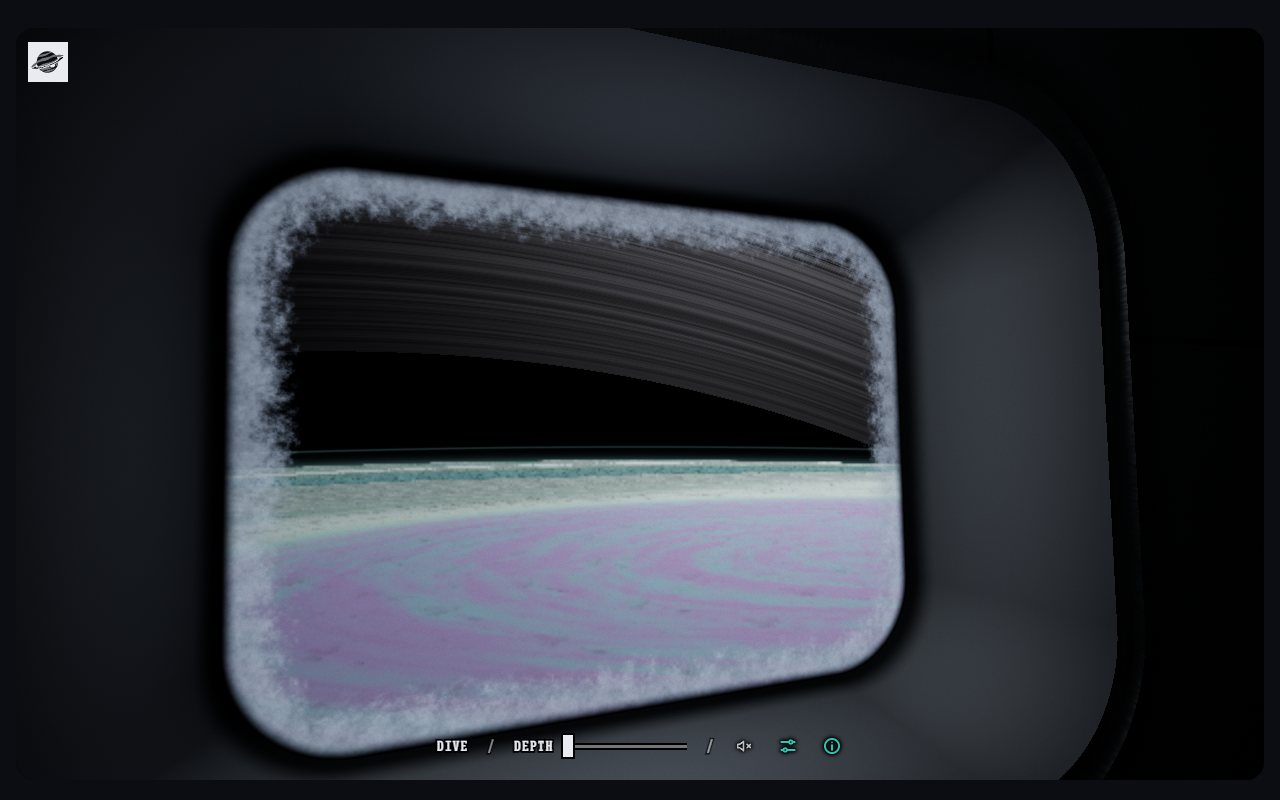
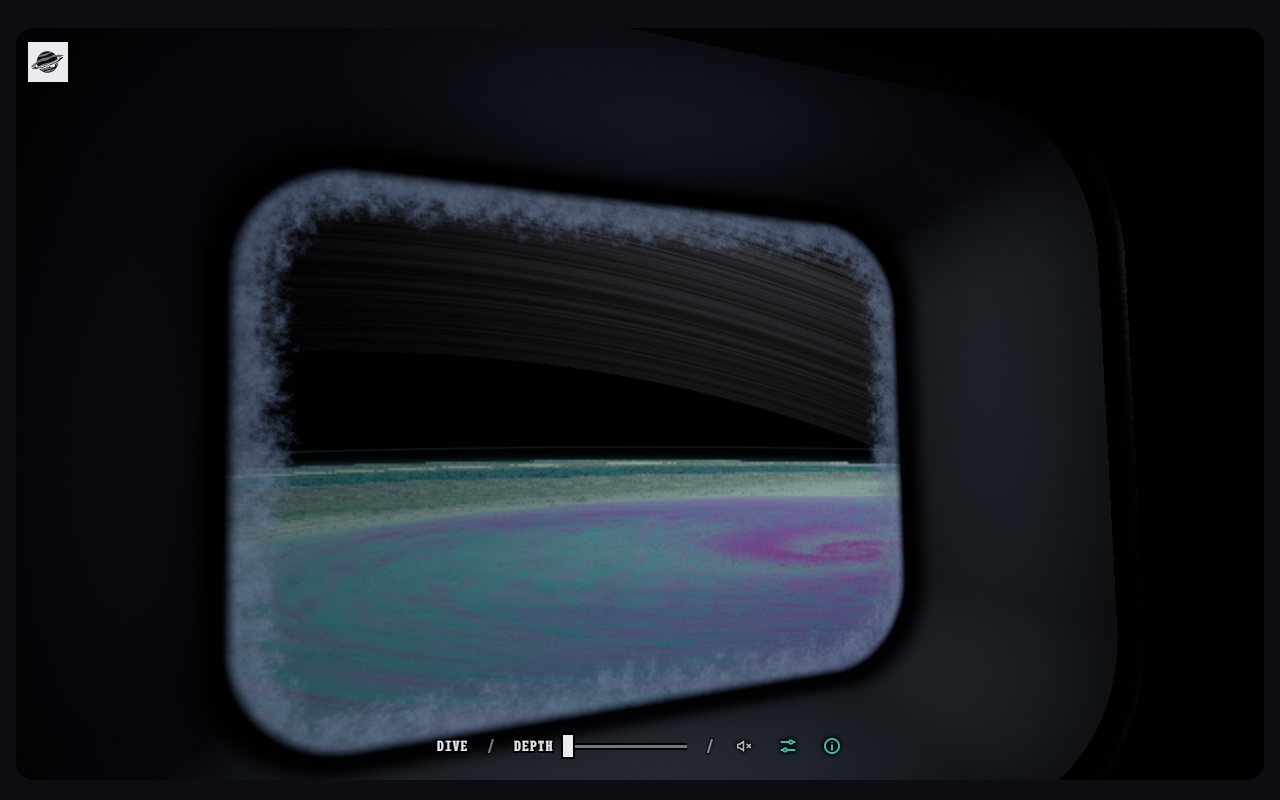
Gas giant dive: look pass on the storm and the outside, Tom's pick. The storm lies on angle and log radius as the volume does: two spiral arms trailing by a twist, folded filaments that roll into eddies, dark teal lanes between violet arms, a dimpled magenta heart; tops follow the arms so the low su

Changed region(s): [[0.1562, 0.1875, 0.8438, 1.0], [0.4375, 0.0938, 0.5938, 0.1875]]

diff --git a/gasgiant/map.js b/gasgiant/map.js
@@ -40,8 +40,10 @@ vec4 bands(vec2 q) {
   float top = mix(0.62, 0.28, belt) + 0.2 * fil + 0.08 * fil2;
   // Belts take jade or teal by turns; filaments shift the hue along them.
   float kind = smoothstep(-0.3, 0.3, sin(zw / 520.0 + 0.3));
-  float hue = mix(0.06, mix(0.36, 0.7, kind), belt) + 0.14 * fil + 0.06 * fil2;
-  float sat = clamp(mix(0.22, 0.85, belt) * (0.75 + 0.35 * fil), 0.0, 1.0);
+  // A slow drift of hue across the disc, so no two regions match.
+  float drift = 0.22 * fbm(q * 0.00035 + 4.0);
+  float hue = mix(0.06 + drift, mix(0.36, 0.7, kind) + drift, belt) + 0.16 * fil + 0.07 * fil2;
+  float sat = clamp(mix(0.5, 0.95, belt) * (0.75 + 0.35 * fil), 0.0, 1.0);
   // White ovals ride one latitude of the belt edge.
   vec2 oc = vec2(mod(q.x, 1300.0) - 650.0, q.y + 1650.0 + 120.0 * gn(vec2(floor(q.x / 1300.0), 1.7)));
   float oval = smoothstep(1.0, 0.55, length(oc / vec2(160.0, 100.0)));
@@ -59,25 +61,34 @@ void main() {
   vec4 b1 = bands(xz - vec2(u * f1 * PH, 0.0));
   vec4 b2 = bands(xz - vec2(u * f2 * PH, 0.0) + vec2(5100.0, 0.0));
   vec4 m = mix(b1, b2, abs(2.0 * f1 - 1.0));
-  // The storm: concentric streaks that turn at their own rate.
+  // The storm: spiral arms on angle and log radius, as in the cloud volume.
+  // The arms trail by a twist; the collar turns fastest; folds bend each filament.
   vec2 e = (xz - ST_C) / ST_AX;
   float q = length(e), a = atan(e.y, e.x);
-  // Slow at the eye, fastest in the collar, still outside.
   float om = 0.0014 * smoothstep(0.0, 0.75, q) * (1.0 - smoothstep(0.85, 1.25, q)) + 0.0002;
-  float ar = a + om * uT + 2.4 * q;
-  vec2 sp = vec2(q * 34.0, 0.0) + vec2(cos(ar), sin(ar)) * 1.6;
-  float st = fbm(sp) + 0.45 * fbm(sp * 2.3 + vec2(cos(ar), sin(ar)) * 2.0);
-  float core = 1.0 - smoothstep(0.55, 0.92, q);
-  float collar = smoothstep(0.7, 0.9, q) * (1.0 - smoothstep(0.98, 1.18, q));
+  float lr = log(max(q, 0.02));
+  float ar = a + om * uT - 2.6 * lr;
+  vec2 cs = vec2(cos(ar), sin(ar));
+  vec2 sp = cs * 1.8 + vec2(lr * 5.0, 0.0);
+  // Folds: a warp of the spiral point, so filaments kink and roll up into small eddies.
+  sp += 0.55 * vec2(fbm(sp * 0.8 + 1.3), fbm(sp * 0.8 + 6.1));
+  float st = fbm(sp * 1.2) + 0.5 * fbm(sp * 3.1 + 2.2);
+  // Arms: two broad bands round the spiral, with dark lanes between them.
+  float arm = 0.5 + 0.5 * sin(2.0 * ar + 1.4 * st);
+  float core = 1.0 - smoothstep(0.5, 0.9, q);
+  float heart = 1.0 - smoothstep(0.0, 0.3, q);
+  float collar = smoothstep(0.72, 0.9, q) * (1.0 - smoothstep(0.98, 1.18, q));
   float inS = 1.0 - smoothstep(0.95, 1.25, q);
   vec4 sm = vec4(0.0);
-  sm.r = clamp(0.78 + 0.18 * st - 0.25 * collar + 0.12 * core, 0.0, 1.0);
-  // A purple core, magenta at its heart, teal filaments, a pale mint collar.
-  float hs = mix(0.84, 1.06, core * smoothstep(-0.2, 0.5, st));
-  hs = mix(hs, 0.66, clamp(-st, 0.0, 1.0) * 0.7);
-  sm.g = mix(hs, 0.08, collar);
-  sm.b = clamp(mix(0.4, 0.78, core) * (1.0 - 0.8 * collar), 0.0, 1.0);
-  sm.a = 0.05;
+  // Tops: a dome, arms high and lanes low, a dimple at the quiet heart.
+  sm.r = clamp(0.62 + 0.3 * arm * (1.0 - collar) + 0.22 * st + 0.18 * core - 0.2 * heart - 0.2 * collar, 0.0, 1.0);
+  // Hue: magenta heart, purple core, teal in the lanes and outer filaments, a mint collar.
+  float hs = mix(0.88, 1.15, heart) + 0.1 * st;
+  hs = mix(hs, 0.62, (1.0 - arm) * 0.55 * (0.4 + 0.6 * core));
+  hs = mix(hs, 0.7, smoothstep(0.55, 0.85, q) * smoothstep(0.1, 0.6, st) * 0.7);
+  sm.g = mix(hs, 0.1, collar);
+  sm.b = clamp(mix(0.5, 0.95, core) * (0.7 + 0.3 * arm) * (1.0 - 0.75 * collar), 0.0, 1.0);
+  sm.a = 0.05 + 0.1 * (1.0 - arm) * core;
   m = mix(m, sm, inS);
   // The wake: a turbulent band west of the storm, full of towers and lightning.
   vec2 wk = (xz - ST_C - vec2(-2300.0, 350.0)) / vec2(1700.0, 600.0);

diff --git a/gasgiant/clouds.js b/gasgiant/clouds.js
@@ -121,13 +121,17 @@ float dens(vec3 p, float lod, float fine) {
     float f = 0.0;
     if (h > 0.0) {
       // The ammonia deck: tops follow the map; billows stand on them; a lumpy ceiling below.
-      float top = 4.0 + 20.0 * m.r + 6.0 * (nb - 0.5) * (1.0 + m.a);
+      // Billows stand taller in the zones and the storm, where the cloud is thick.
+      float top = 4.0 + 20.0 * m.r + (6.0 + 5.0 * m.r) * (nb - 0.5) * (1.0 + m.a);
+      // Convective cells 17 km across heap the tops, as in Juno's close views.
+      top += fine * 5.0 * (n2.b - 0.45) * (0.4 + 0.6 * m.r);
       float base = 2.0 + 3.0 * (nb - 0.5);
       float sh = min(top - h, (h - base) * 0.7);
-      float cov = smoothstep(0.3, 0.5, nc.a + 0.3 * (m.r - 0.5) + 0.08 * (nb - 0.5));
+      // Holes open in the low belts; zones and the storm stay closed.
+      float cov = smoothstep(0.22, 0.42, nc.a + 0.55 * (m.r - 0.45) + 0.08 * (nb - 0.5));
       d = smoothstep(0.0, 1.2 + lod, sh) * (0.45 + 0.55 * n1.b) * cov;
       // Hue drifts a little with the billows, so the colours blend in the cloud.
-      gAlb = mix(vec3(0.9, 0.93, 0.91), pal(m.g + 0.12 * (n1.a - 0.5)), m.b);
+      gAlb = mix(vec3(0.86, 0.9, 0.88), pal(m.g + 0.22 * (n1.a - 0.5) + 0.12 * (n2.a - 0.5)), m.b);
       gOpen = clamp(1.0 - (top - h) / 6.0, 0.0, 1.0);
     } else if (h > -24.0) {
       // The upper void: towers stand between the brown floor and the white ceiling.
@@ -158,10 +162,10 @@ float dens(vec3 p, float lod, float fine) {
   }
   return d;
 }
-// Optical depth toward the sun over two growing taps.
+// Optical depth toward the sun over three growing taps.
 float sunOD(vec3 p, float lod) {
-  float od = 0.0, st = 1.4;
-  for (int j = 0; j < 2; j++) {
+  float od = 0.0, st = 1.2;
+  for (int j = 0; j < 3; j++) {
     p += SUN * st;
     od += dens(p, lod + 1.0, 0.0) * st;
     st *= 3.0;
@@ -203,9 +207,9 @@ void main() {
         // Fire's smoke: Beer, multiple scatter, powder, a shadow ambient.
         float tau = SIG * (lod < 2.5 ? sunOD(p, lod) : 0.0);
         float beer = exp(-tau);
-        float lit = beer + 0.5 * exp(-0.25 * tau);
+        float lit = beer + 0.3 * exp(-0.25 * tau);
         float powder = 1.0 - exp(-2.0 * tau - 0.6);
-        lit = mix(lit, lit * powder, 0.35) + 0.04;
+        lit = mix(lit, lit * powder, 0.35) + 0.025;
         float ring = ringShadow(p);
         vec3 sun = L.rgb * L.a * lit * ph * ring * 0.6;
         vec3 diffuse = L.rgb * (1.0 - L.a) * (0.25 + 1.0 * open * open);
@@ -254,7 +258,7 @@ void main() {
     // Haze over the deck seen from above.
     if (!inWin && tHit > 0.0) {
       float hz = 1.0 - exp(-(tHit - t0) / 2600.0);
-      col = mix(col, vec3(0.34, 0.58, 0.6) * 0.7 * al, hz * 0.7);
+      col = mix(col, vec3(0.3, 0.55, 0.6) * 0.6 * al, hz * 0.45);
     }
     res = vec4(col, al);
   }

diff --git a/gasgiant/main.js b/gasgiant/main.js
@@ -153,7 +153,7 @@ function basis() {
   // The look: yaw about Y, then pitch about X, in capsule axes.
   // The eye sits left of the window and looks across it, as in Window seat.
   // A narrow stage eases the angle and moves the eye back, so the whole window shows.
-  const wide = smooth(0.6, 1.4, W / H);
+  const wide = QS.has('out') ? 0 : smooth(0.6, 1.4, W / H);
   const ly = (S.yaw + 21 * wide) * DEG, lp = (S.pitch - 3) * DEG;
   const cy = Math.cos(ly), sy = Math.sin(ly), cp = Math.cos(lp), sp = Math.sin(lp);
   const look = [cy, 0, -sy, sy * sp, cp, cy * sp, sy * cp, -sp, cy * cp];
@@ -298,8 +298,9 @@ function render(dt) {
   gl.uniform2f(c.uShake, a * (Math.sin(ph * 37) + 0.5 * Math.sin(ph * 61)), a * (Math.sin(ph * 41 + 1) + 0.5 * Math.sin(ph * 73)));
   tri(gl, T.cabin, vao);
   gl.useProgram(P.fin.p);
-  bind(gl, P.fin, 'uScene', 0, T.cabin);
-  gl.uniform1f(P.fin.u.uExp, 0.55 * clamp(Math.pow(Math.max(S.lum, 1e-6), -0.32), 1, 4.5));
+  // ?out shows the outside alone, for look work.
+  bind(gl, P.fin, 'uScene', 0, QS.has('out') ? T.scene : T.cabin);
+  gl.uniform1f(P.fin.u.uExp, 0.3 * clamp(Math.pow(Math.max(S.lum, 1e-6), -0.32), 1, 4.5));
   gl.uniform1f(P.fin.u.uSeed, frameNo % 97);
   gl.uniform1f(P.fin.u.uAsp, W / H);
   tri(gl, null, vao);

diff --git a/gasgiant/post.js b/gasgiant/post.js
@@ -32,6 +32,9 @@ ${GRADE}
 ${OUTPUT}
 void main() {
   vec3 c = texture(uScene, vUv).rgb;
+  // A mild lift of colour, so the palette holds through the film curve.
+  float lu = dot(c, vec3(0.2126, 0.7152, 0.0722));
+  c = max(mix(vec3(lu), c, 1.3), 0.0);
   c = gdGrade(c * uExp, vUv, uAsp, gl_FragCoord.xy + vec2(uSeed * 37.0, uSeed * 91.0), vec3(0.0005, 0.0004, 0.0006), 0.42, 0.45, 0.035);
   o = vec4(ouFilmAces(c, 1.0, gl_FragCoord.xy), 1.0);
 }`;

diff --git a/docs/plans/gasgiant.md b/docs/plans/gasgiant.md
@@ -98,6 +98,19 @@ Tom: "window seat has an angled view -- let's have some GI inside -- also the cl
 | Washing | Inside a deck, three layers of wisps at 1, 4 and 12 m tear up past the glass at their own speeds. Flashes come three times as often and light the wisps and the cabin. |
 | Flash cap | Still three flash starts a second at most (photosensitive safety). Each flash is soft, never a full-frame white. |
 
+## Look pass: the storm and the outside (Tom, 2026-11-23)
+
+Tom picked "Storm and outside" for the next pass. `?out` shows the outside alone, with no cabin, for this work.
+
+| Part | Change |
+|---|---|
+| Storm | The map's storm lies on angle and log radius, as the volume does: two spiral arms trail by a twist, a warp folds the filaments into small eddies, dark teal lanes run between violet arms, the heart is magenta and dimpled. Tops follow the arms, so the low sun shades the lanes. |
+| Colour | A slow hue drift across the disc; zones carry at least half their colour; the billows vary the hue inside the cloud. |
+| Light | Exposure 0.3 at the top, so the deck sits in the mid-tones; a 1.3 saturation lift before the film curve; thinner haze over the deck. |
+| Shade | Three sun taps to 15 km; less multiple-scatter floor, so billows show a shaded side. Taller billows in the zones and the storm; 17 km convective cells on the tops. |
+| Holes | They open in the low belts; zones and the storm stay closed. |
+| Next | The near deck from 60 km still reads smooth. It needs cloud-top relief at Juno's scale: folded ridges and popcorn cells sharp enough to cast shadows. |
+
 ## 4. Tech
 
 ### Renderer

diff --git a/.beans/stimming-vxno--gas-giant-dive-mvp-the-plunge-idea-367.md b/.beans/stimming-vxno--gas-giant-dive-mvp-the-plunge-idea-367.md
@@ -5,7 +5,7 @@ status: in-progress
 type: feature
 priority: normal
 created_at: 2026-11-23T09:38:54Z
-updated_at: 2026-11-23T10:30:11Z
+updated_at: 2026-11-23T10:44:20Z
 parent: stimming-oh7b
 ---
 
@@ -35,3 +35,8 @@ MVP: the plunge from 260 km over the cloud deck to 20 bar. Raw WebGL2 on shared/
 - Q6: reduced motion, shake 0. Q7: one action, one slider. Q8: Space dives (9.9 km/s at 6 s).
 - Q9: the context is suspended at the end. Q10: 6.1 ms a frame during the dive (median and p90), before the cabin pass grew.
 - Stills: docs/qa/gasgiant/.
+
+
+## Look pass: storm and outside, 2026-11-23
+
+Spiral storm with arms, lanes and folds; hue drift; exposure 0.3; saturation lift; three sun taps; holes in the belts. Links 1.1 s on D3D11. Next: cloud-top relief at Juno's scale for the near deck.

diff --git a/docs/toys/gasgiant.md b/docs/toys/gasgiant.md
@@ -72,7 +72,7 @@ Web Audio on the shared kit, muted by default. Wind through a low-pass that fall
 | `bolts.js` | Lightning timing |
 | `sound.js` | Web Audio |
 
-Links: `?alt=-14` starts at that height; `?qa` exposes the state as `__gg` and times each shader link.
+Links: `?alt=-14` starts at that height; `?out` shows the outside with no cabin; `?qa` exposes the state as `__gg` and times each shader link.
 
 ## QA
 
